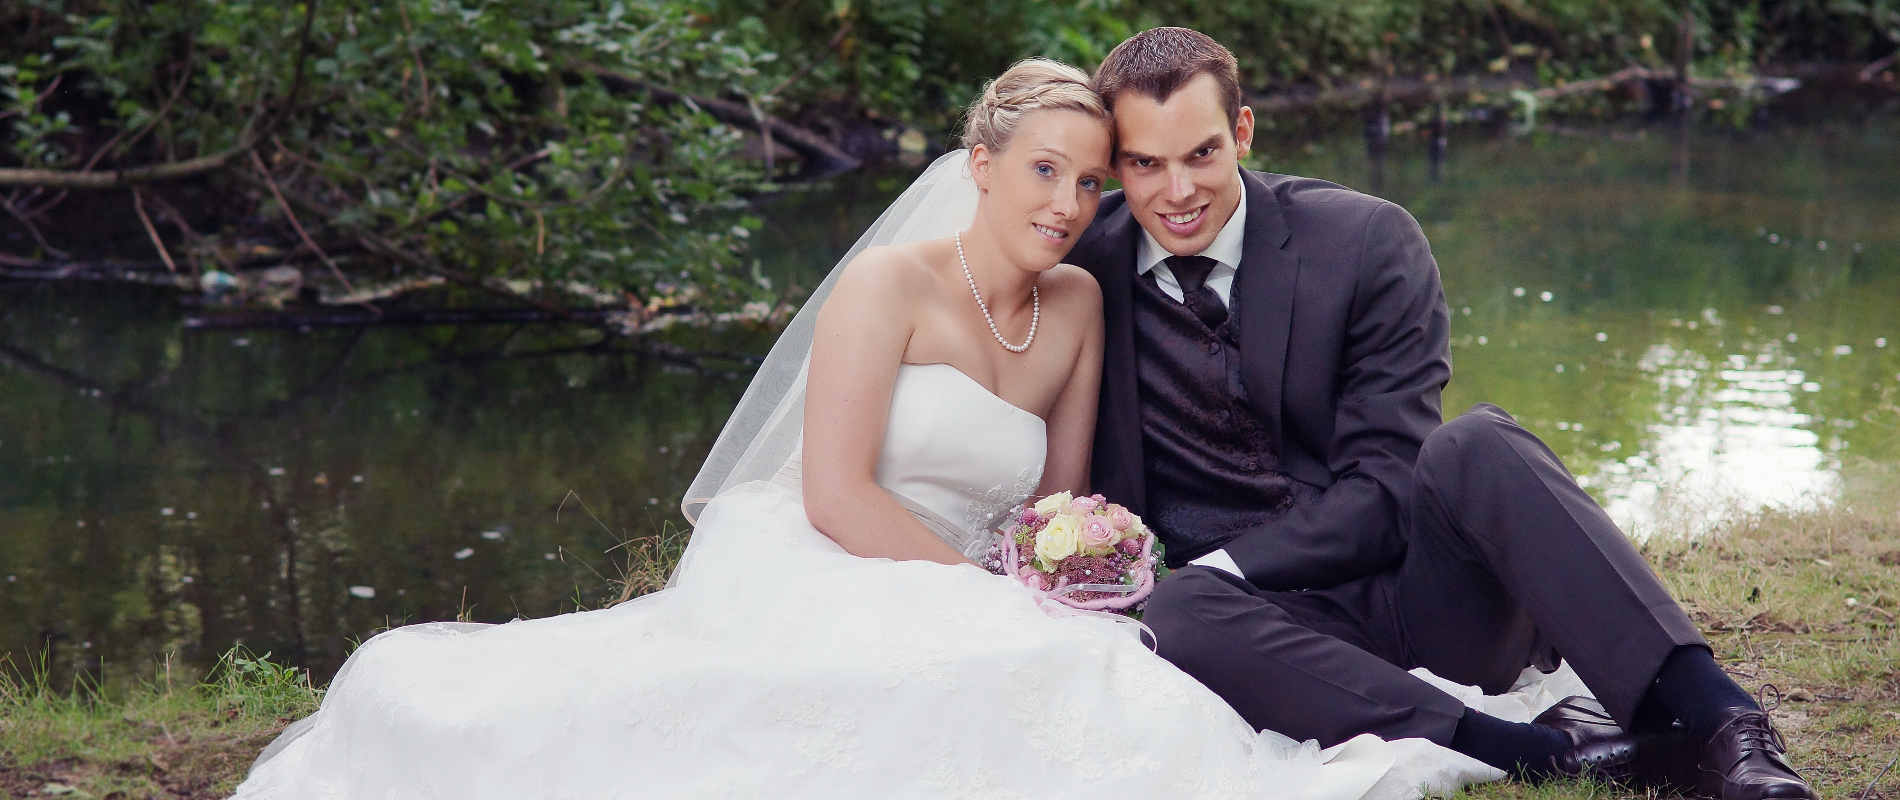
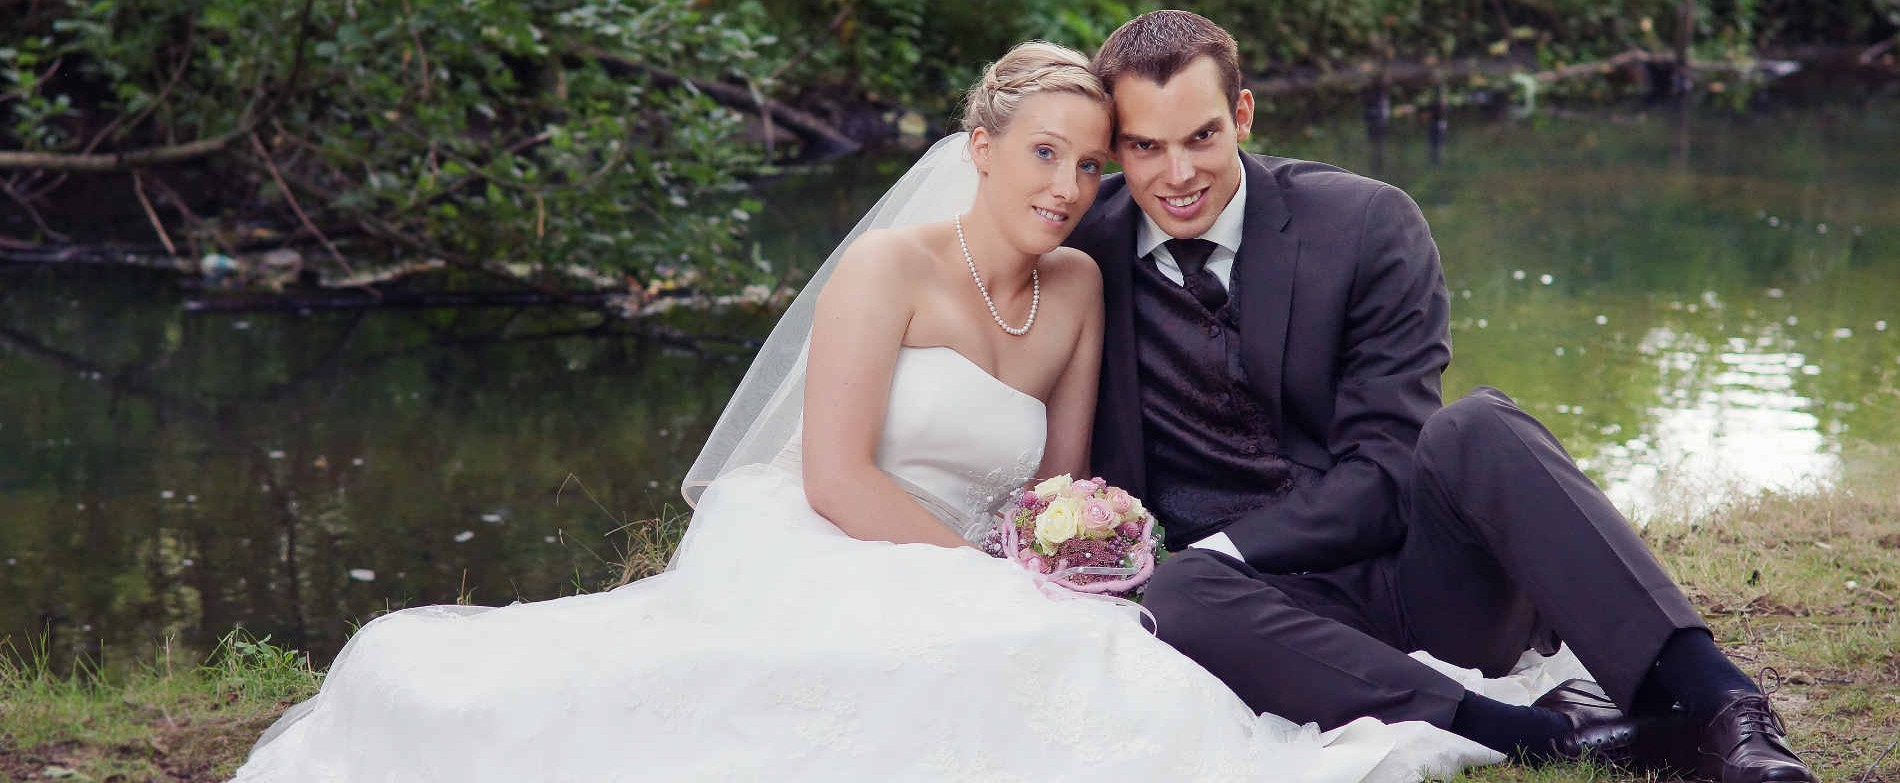
smaller carousel, bigger serach bar

diff --git a/app/assets/stylesheets/framework_and_overrides.css.scss b/app/assets/stylesheets/framework_and_overrides.css.scss
@@ -12,18 +12,23 @@
     }
 }
 
+// primaty button in dark blue
+
 .btn-primary{
   background-color: #2a6496;
   border-color: #2a6496;
 }
 .btn-primary:hover, .submit:hover, .btn-primary:focus, .submit:focus, .btn-primary:active, .submit:active, .btn-primary.active, .active.submit {
-  background-color: #285e8e;
-  border-color: #285e8e;
+  background-color: #245269;
+  border-color: #245269;
   color: white;
 }
 
+// Navbar
+
 .navbar-blue{
   background-color: #2a6496;
+  border-color: #2a6496;
 }
 
 .navbar-brand{
@@ -57,6 +62,31 @@
     background-color: #359cd6;
   }
 }
+
+// Searchbar
+
+.search-bar{
+  top:50px;
+  left:5%;
+  position:absolute;
+  min-width:300px;
+  height:400px;
+  padding-left:13px;
+  padding-right:13px;
+  background-color: rgba(0,0,20,0.5);
+  color: whitesmoke;
+}
+
+.search__field{
+  color: #222222;
+  width:103px;
+  padding:5px;
+}
+
+.search__image{
+  width:105px;
+}
+
 
 
 // make all images responsive by default
